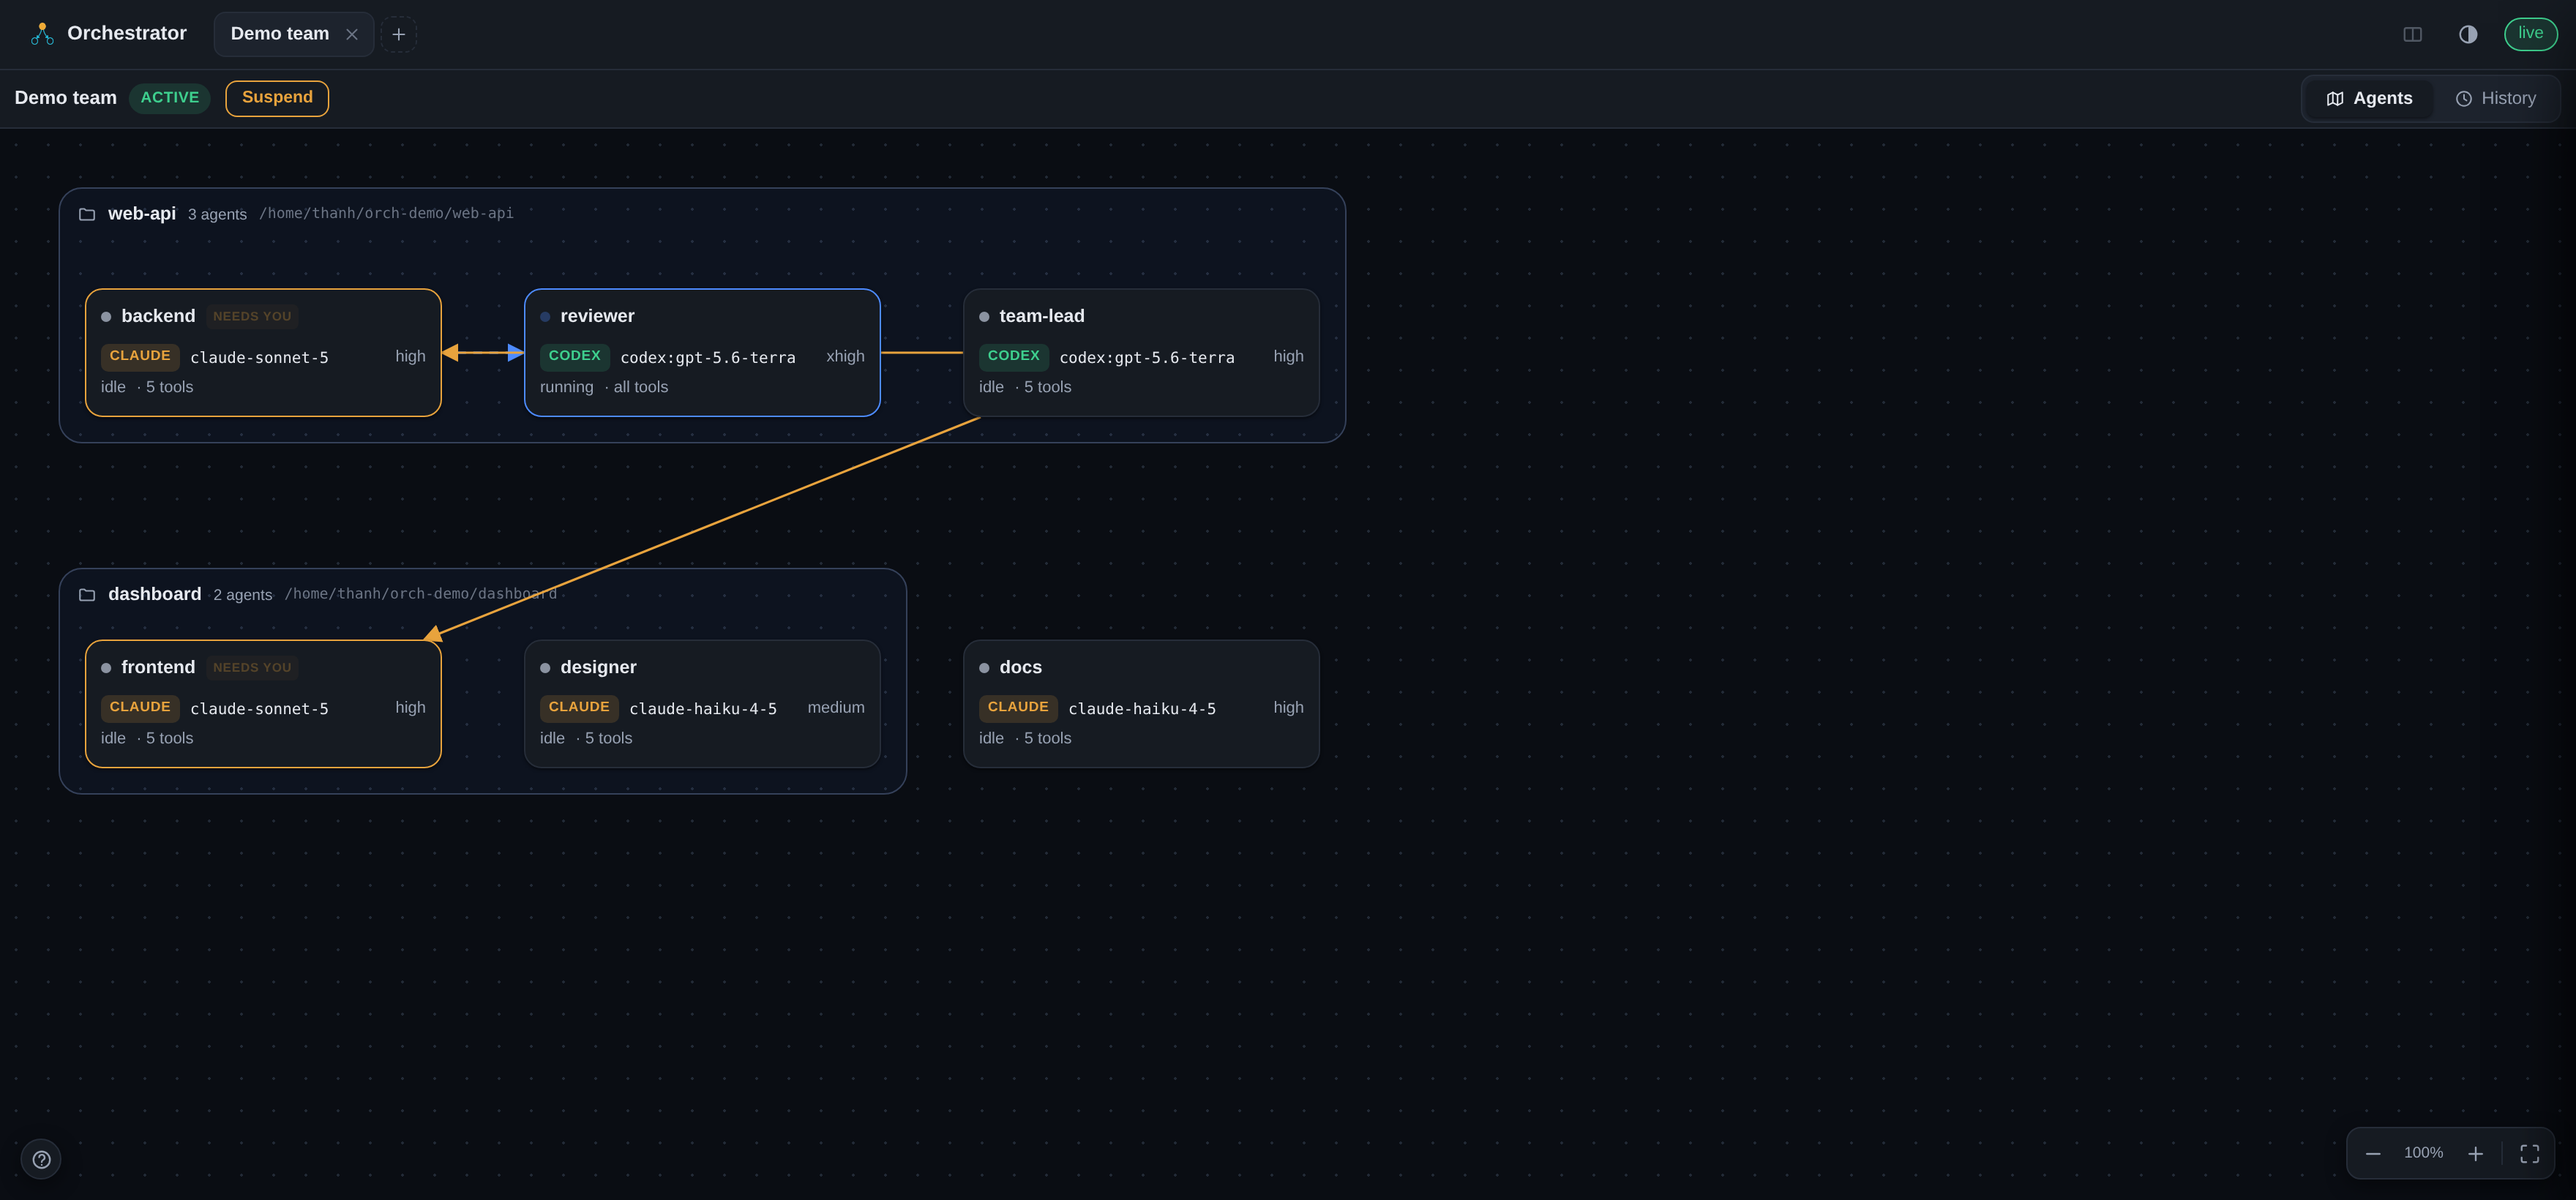
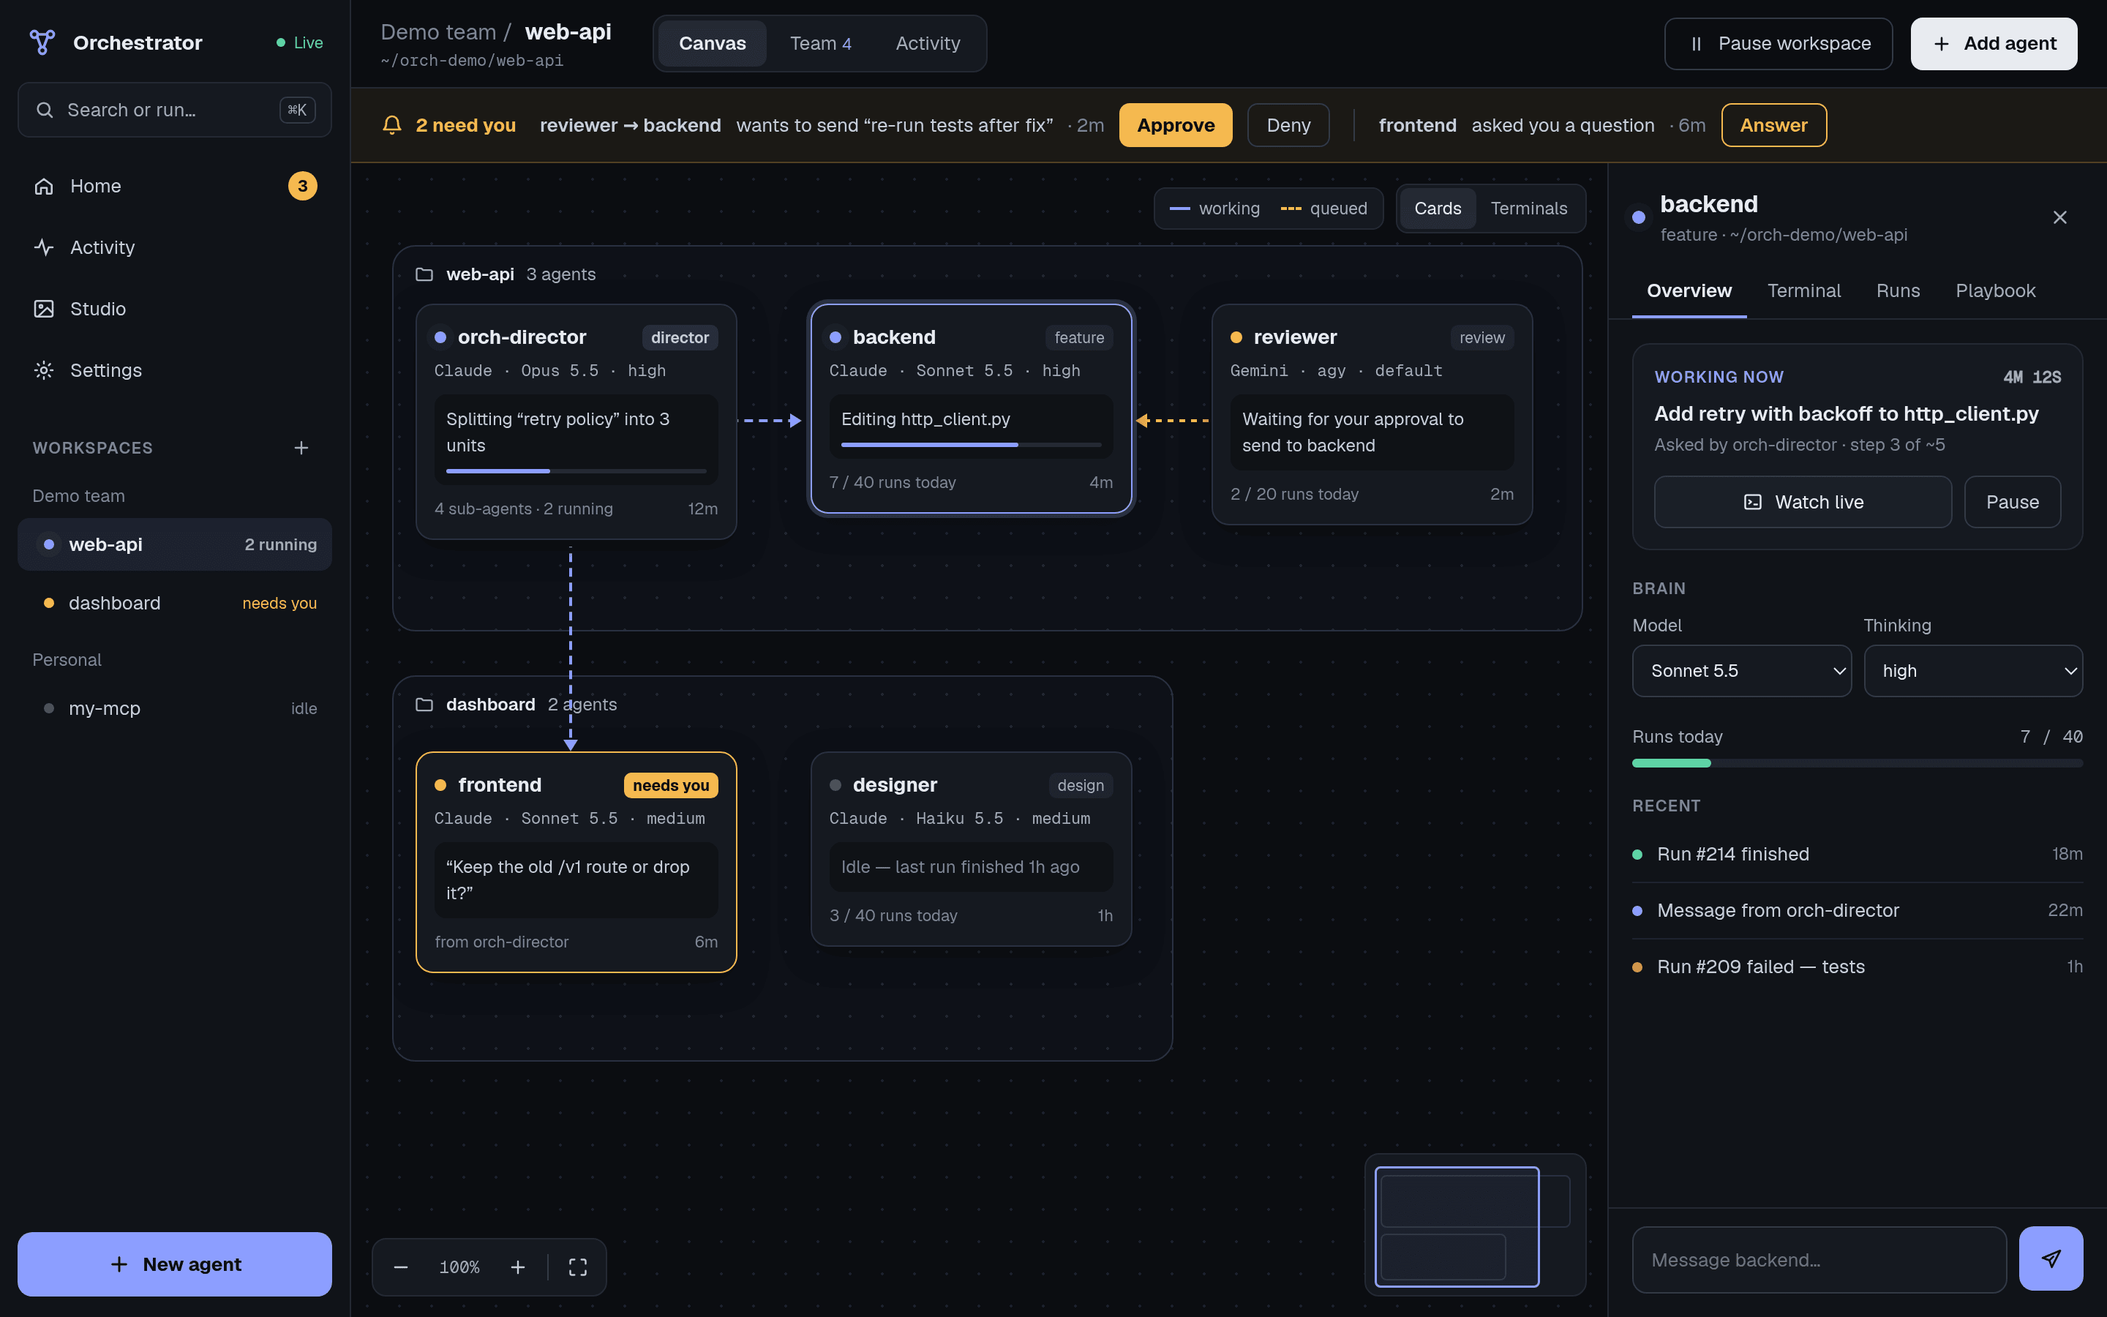
README: shorter, focused on orchestrating coding agents
- New intro and How it works (director → sub-agents → verifier → you)
- Canvas, Team and Home images from the redesign mockups
- Drop Studio/media features and media-tool setup; Connect via Settings › Connections

diff --git a/readme.md b/readme.md
@@ -2,67 +2,57 @@
 
 # Agent Orchestrator
 
-Claude Code and Antigravity CLI on one canvas, working together. It drives the CLIs already
-installed on your machine, so each provider keeps its own login and subscription.
+Run a team of coding agents on your own machine and stay in charge of it. You talk to one
+director; it splits the job across sub-agents in their own git worktrees, and nothing counts as
+done until an independent verifier has seen it work.
 
-![The canvas](images/screenshot-canvas.png)
+It drives the Claude Code and Antigravity (Gemini) CLIs you already have, so each provider keeps
+its own login and subscription.
+
+![Workspace canvas: the director, its agents, and what waits on you](images/screenshot-canvas.png)
 
 [Download](../../releases) · [Report a bug](../../issues/new)
+
+## How it works
+
+1. **Start a director** for a repo. It is the one agent you talk to.
+2. **It splits the work** and hands each unit to a sub-agent with
+   `spawn_subagent(playbook, brief, done_when)`. Code is written in a worktree on branch
+   `orch/<id>`; your checkout is never touched.
+3. **A fresh verifier checks `done_when`**: a command and its output, a flow in the running app.
+   FAIL goes back to the builder with findings; PASS tells the director which branch to merge.
+4. **You step in only when needed.** Approvals, questions and failed checks land in one inbox.
 
 ## Features
 
 **Agents**
-- Live terminal cards for Claude Code and Antigravity (Gemini) on one canvas, with the model
-  and reasoning effort picked per agent. Claude offers the `fable` / `opus` / `sonnet` / `haiku`
-  aliases (always the newest) and pinned ids (Fable 5.1, Opus 5.5, Sonnet 5.5, Haiku 5.5); the
-  Gemini list is read from `agy models` on your machine, so new models show up when agy adds them.
-- Agents hand work to each other with `send_signal`. Every run is queued, capped and logged in
-  History.
-- Role playbooks that fill themselves in from the project. Rename an agent at any time.
-- Workspaces (isolated folders and agents) filed into groups, two of them side by side.
-- A folder card to browse a project from the dashboard; `--dev` swaps it for neovim with a git diff
-  view.
+- Live terminal cards for Claude Code and Antigravity on one canvas, with model and reasoning
+  effort per agent. Gemini models are read from `agy models`, so new ones show up on their own.
+- Agents hand work to each other with `send_signal`; every run is queued, capped and logged.
+- Role playbooks that fill themselves in from the project.
+- Workspaces (isolated folders and agents) in groups, two side by side.
 - Guard rails: approval gate, ping-pong and daily caps, kill switch, one prompt at a time per
   agent, reachable from your own machine only by default.
 
 **Director and sub-agents**
-- Spawn an agent for a repo with the **director** template: it is the one agent you talk to. It
-  goes deep first, splits the work, and delegates each unit to a sub-agent with
-  `spawn_subagent(playbook, brief, done_when)`.
-- Each sub-agent that writes code gets its own git worktree and branch `orch/<id>`; your checkout
-  is never touched. Playbooks: `feature`, `bugfix` (reproduce first), `refactor` (record behaviour
-  first), `investigate` (read-only).
-- Nothing counts as done until a fresh verifier session observes the `done_when` contract and
-  records a verdict. A FAIL goes back to the builder with findings; a verifier that edits files
-  has its verdict thrown away. The director is messaged when each one passes (with the branch to
-  merge) or fails.
-- Sub-agents and verifiers run on Claude (the director's model when it runs Claude). Gemini (agy)
-  only when you pick it for a role in the **Team** tab; a director cannot pick it itself.
-- `send_signal(..., done_when=...)` puts any hand-off between agents through the same check.
-- Select a director on the canvas (or click its **N sub-agents** badge) to watch its team in its
-  own panel: each sub-agent's stage, current step, verdict and diff, with cancel and verify again.
-- **Team** tab: every director's sub-agents at once (stage, current step, verdict, diff, runs), cancel, verify
-  again, discard; the decision log (`record_decision`); per-role models; a handoff graph you can
-  enforce; and **Reflect**, which turns failed runs into a proposed playbook change you approve.
+- Playbooks: `feature`, `bugfix` (reproduce first), `refactor` (record behaviour first),
+  `investigate` (read-only).
+- A verdict is tied to the commit that was checked; a verifier that edits files has its verdict
+  thrown away. Repeated FAILs stop at a cap and tell the director.
+- **Team** tab: a pipeline board (Building → Verifying → Passed / Failed) with each sub-agent's
+  step, verdict and diff; the director's decision log; who may message whom; models per role;
+  **Reflect**, which turns failed runs into a playbook change you approve.
+- Sub-agents run on Claude; Gemini only when you pick it for a role in the Team tab.
 
-**Media**
-- **Images** — generate and edit pictures, with up to three reference images.
-- **Sounds** — search YouTube (AI-generated, filtered by length), pull out the audio, crop it in a
-  waveform editor.
-- **Library** — every kept image and sound in one drawer. Upload an mp3 and crop it.
-- **Speak text** — natural English speech made on your machine (Kokoro, 28 US and UK voices).
-- **Performance** — **Tools › Performance** shows what is using your computer's CPU and memory: each
-  agent's terminal, run and editor, the orchestrator itself, and plain advice when something is off.
-- **Media tools** — checks for ffmpeg, ImageMagick, yt-dlp, SoX and ExifTool, and tells you how to
-  install what is missing.
+![Team tab: sub-agents by stage and the director's decisions](images/screenshot-team.png)
 
-**For agents and other apps**
-- Built-in MCP servers, connected to every CLI with one click: `signal` (message other agents),
-  `library` (search media, measure sounds), `voice` (speak).
-- An MCP manager that adds any HTTP MCP server to all installed CLIs at once. Tokens never touch a
-  command line.
-- An OpenAI-compatible API: chat with an agent at `/v1/chat/completions`, make images at
-  `/v1/images/generations`. API docs at `/docs`.
+**Staying in control**
+- **Home** inbox: every message waiting for approval, every question and every failed check
+  across workspaces, with Approve / Deny in place.
+- **Activity**: one timeline of messages and runs, with live transcripts.
+- **Ctrl/⌘K**: jump to any agent or workspace, or run any action.
+
+![Home: what needs you and what is running](images/screenshot-home.png)
 
 ## Setup
 
@@ -74,8 +64,6 @@ At least one, installed and logged in:
 |---|---|
 | Claude Code | [code.claude.com/docs](https://code.claude.com/docs/en/quickstart#native-install-recommended) |
 | Antigravity CLI | [antigravity.google/docs/cli](https://antigravity.google/docs/cli/reference) — the `agy` command |
-
-Images need the Antigravity CLI.
 
 ### 2. Install the orchestrator
 
@@ -127,45 +115,18 @@ Then open <http://localhost:8992>.
 
 ### 3. Connect the agents' tools
 
-In the dashboard, press 🔌 and, under **Built into the orchestrator**, press **Connect** next to
-`signal` — and next to `library` and `voice` if you want them. `signal` also carries
-the director's team tools (`spawn_subagent`, `submit_verdict`, `record_decision`…). Agents already running
-pick the tools up after a restart.
+In the dashboard, open **Settings › Connections** and press **Connect** next to `signal`. It
+carries messaging between agents and the director's team tools (`spawn_subagent`,
+`submit_verdict`, `record_decision`…). Agents already running pick it up after a restart.
 
-Or by hand, once per CLI (same pattern for `library` and `voice`):
+Or by hand, once per CLI:
 
 ```bash
 claude mcp add --transport http --scope user signal http://127.0.0.1:8992/signal/mcp
 agy mcp add signal http://127.0.0.1:8992/signal/mcp
 ```
 
-### 4. Optional extras
-
-**Media tools**, for agents that edit video and audio, and for the Sounds panel:
-
-```powershell
-# Windows
-winget install Gyan.FFmpeg
-winget install ImageMagick.ImageMagick
-```
-
-```bash
-# macOS
-brew install ffmpeg imagemagick sox exiftool
-# Linux
-sudo apt install ffmpeg imagemagick sox libimage-exiftool-perl
-```
-
-```bash
-# yt-dlp, any OS (needed for Sounds; the distro version is usually too old)
-python3 -m pip install --upgrade yt-dlp
-```
-
-Restart the orchestrator after installing, then check the wrench in the top bar.
-
-**Speak text** needs its voice once: **Tools › Speak text › Download** (350 MB).
-
-### 5. Settings
+### 4. Settings
 
 Put these in a `.env` file next to `session_orchestrator.py` (or next to `agent-orch.exe`):
 
@@ -181,7 +142,7 @@ Put these in a `.env` file next to `session_orchestrator.py` (or next to `agent-
 > Agents run shell commands with permissions bypassed, and there is no API key.
 > `ORCH_HOST=0.0.0.0` hands that to everyone on your network.
 
-### 6. Keep it running (optional)
+### 5. Keep it running (optional)
 
 Run it as your own user, never root. Replace the paths with where you unzipped or cloned it.
 
